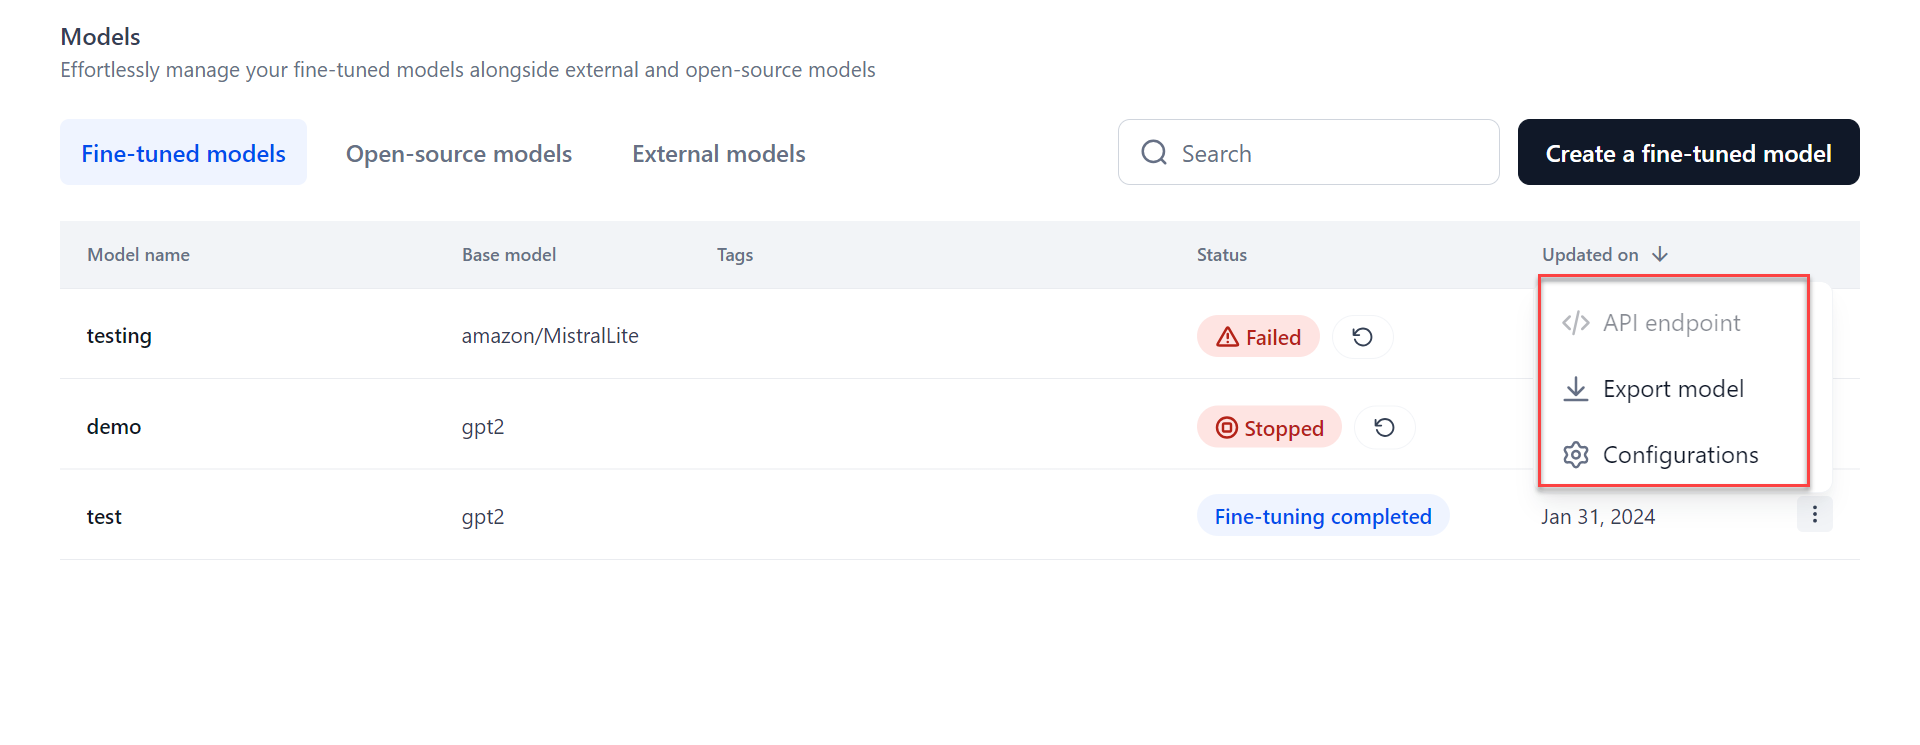
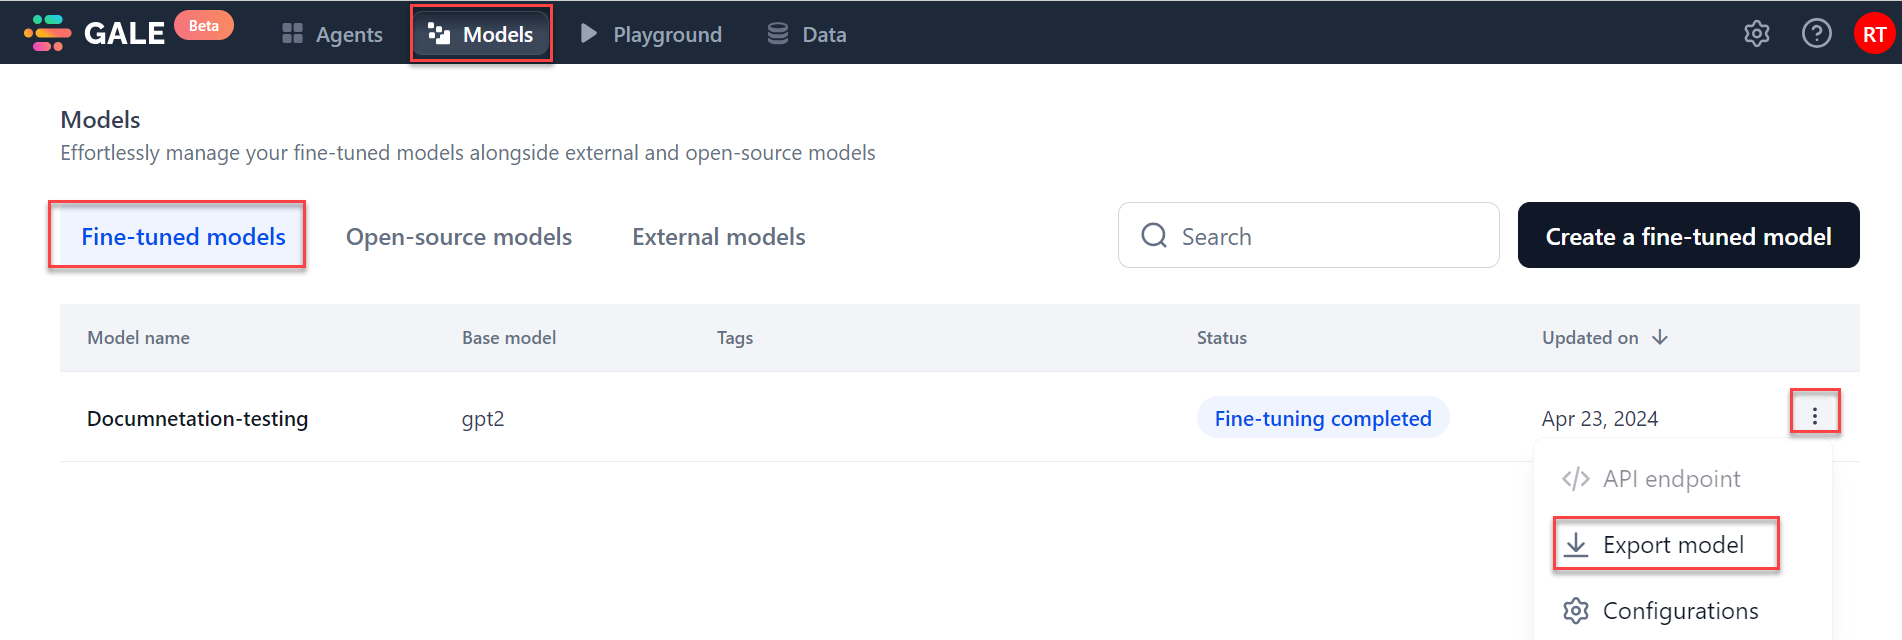
fixed image issues

diff --git a/docs/gale/models/external-models/add-an-external-model-using-api-integration.md b/docs/gale/models/external-models/add-an-external-model-using-api-integration.md
@@ -16,7 +16,7 @@ Custom API Integration in GALE enables extensibility of use, where it allows you
 
 1. Select the **Custom integration** option to connect models via API integration, and click **Next**.
 
-    The **Custom API Integration** dialog is displayed.
+    The **Custom API integration** dialog is displayed.
 
 1. Enter a **Model name** and **Model endpoint URL** in the respective fields.
 
@@ -41,6 +41,7 @@ Custom API Integration in GALE enables extensibility of use, where it allows you
 1. In the **Body** section, request body of the model you are trying to connect with in GALE.
 
     <img src="../images/custom-api-integration-body.png" alt="Custom API Integration Body" title="Custom API Integration Body" style="border: 1px solid gray; zoom:80%;">
+
 1. In the **Test response** section, you need to provide a test response from the model:
 
     * Click the **Test** button under the **Test** section on the **Custom API Integration** dialog.
@@ -50,7 +51,7 @@ Custom API Integration in GALE enables extensibility of use, where it allows you
 
     * Enter a **Prompt**, **Sample prompt**, and **Examples** in the respective fields.
 
-1. Once the response is generated after the Test, you can configure the **JSON path** to capture the output path, Input tokens, and Output tokens.
+1. Once the response is generated after the Test, you can configure the **JSON path** to capture the Output path, Input tokens, and Output tokens.
     
     !!! note
 

diff --git a/docs/gale/models/overview.md b/docs/gale/models/overview.md
@@ -4,6 +4,6 @@ The Model Studio provides the capability to augment base models by integrating t
 
 GALE provides you with 3 different options as part of the model studio:
 
-1. **Fine-tuning model**: This section, enables you to perform fine-tuning on an existing model, allowing you to create customized models tailored to your specific needs.
+1. **Fine-tuned model**: This section, enables you to perform fine-tuning on an existing model, allowing you to create customized models tailored to your specific needs.
 2. **Open-source model**: In this section, you can can either choose to deploy from a curated list of 30+ most popular open-source models or bring in any text generation model of your choice from Hugging Face.
 3. **External models**: In this section, you can add external models models such as Open AI, Anthropic, Azure Open AI, Cohere, and Google. Moreover, if you've hosted any models and wish to integrate them into GALE using API connections, this can be seamlessly achieved in this section.

diff --git a/docs/gale/models/open-source-models/select-and-deploy-an-open-source-model.md b/docs/gale/models/open-source-models/select-and-deploy-an-open-source-model.md
@@ -1,4 +1,4 @@
-# Select and deploy an open-source model
+# Select and Deploy an Open-Source Model
 
 Currently, we support thirty-plus open-source models and provide them as a service to our users.
 
@@ -85,7 +85,7 @@ You can click the required model from the model listing as shown in the precedin
 <img src="../images/three-dots-options-for-model.png" alt="Three Dots Options for Model" title="Three Dots Options for Model" style="border: 1px solid gray; zoom:80%;">
 
 
-Click the **Deployment history** tab on the Deploy page to see view the history. This can be particularly useful for auditing and accountability purpose.
+Click the **Deployment history** tab on the Deploy page to view the history. This can be particularly useful for auditing and accountability purpose.
 
 
 ### **Re-deploy a Deployed Model**

diff --git a/docs/gale/models/external-models/add-an-external-model-using-easy-integration.md b/docs/gale/models/external-models/add-an-external-model-using-easy-integration.md
@@ -12,7 +12,7 @@ In this topic, you can see the process of adding the Claude-V1 model from the pr
 
 1. Click **Add a model** under the **External models** tab. The **Add an external model** dialog is displayed.
 
-    <img src="../images/navigate-to-data-module.png" alt="Add External Model Easy Integration" title="Add External Model Easy Integration" style="border: 1px solid gray; zoom:80%;">
+    <img src="../images/add-external-model-easy-integration.png" alt="Add External Model Easy Integration" title="Add External Model Easy Integration" style="border: 1px solid gray; zoom:80%;">
 
 1. Select the **Easy integration** option to integrate models from Open AI, Anthropic, Google, or Cohere and click **Next**.
 2. Select a provider to integrate with and click **Next**.

diff --git a/docs/gale/models/fine-tune-models/generate-an-api-key.md b/docs/gale/models/fine-tune-models/generate-an-api-key.md
@@ -12,7 +12,7 @@ You can generate an API for your fine-tuned model and share it with other truste
 
     <img src="../images/generate-api-key.png" alt="Generate API Key" title="Generate API Key" style="border: 1px solid gray; zoom:80%;">
 
-1. Enter a **Name** for the key and click the **Generate key** button. Your API key is now generated. You can copy the key and share it with others if required. 
+1. Enter a **Name** for the key and click the **Generate key** button. Your API key is now generated. Click **Copy and close** button to copy your API key and share it with others if required. 
 
     
     <img src="../images/copy-api-key.png" alt="Copy API Key" title="Copy API Key" style="border: 1px solid gray; zoom:80%;">

diff --git a/docs/gale/models/fine-tune-models/create-a-fine-tuned-model.md b/docs/gale/models/fine-tune-models/create-a-fine-tuned-model.md
@@ -36,7 +36,7 @@ Let us now look into each step in detail.
     * Select Hugging Face connection. For more information about how to connect to Hugging Face account, see [How to Connect to your Hugging Face Account](../../integrations/how-to-to-connect-to-your-hugging-face-account.md).
 
 
-    <img src="../images/general-details-section.png" alt="Base Model Section" title="Base Model Section" style="border: 1px solid gray; zoom:80%;">
+    <img src="../images/base-model-section.png" alt="Base Model Section" title="Base Model Section" style="border: 1px solid gray; zoom:80%;">
 
 1. In the **Fine-Tuning configuration** section:
 

diff --git a/docs/gale/models/fine-tune-models/export-your-fine-tuned-model.md b/docs/gale/models/fine-tune-models/export-your-fine-tuned-model.md
@@ -7,6 +7,6 @@ You can export your fine-tuned model for reference.
 
 1. Click the three dots icon corresponding to the **Model name** on the **Models** page. A pop-up with a list of options is displayed.
 
-    <img src="../images/navigate-to-data-module.png" alt="Export Fine-Tuned Model" title="Export Fine-Tuned Model" style="border: 1px solid gray; zoom:80%;">
+    <img src="../images/export-fine-tuned-model.png" alt="Export Fine-Tuned Model" title="Export Fine-Tuned Model" style="border: 1px solid gray; zoom:80%;">
 
 1. Click **Export model** from the list of options. The exported zip file is saved in your downloads folder.
